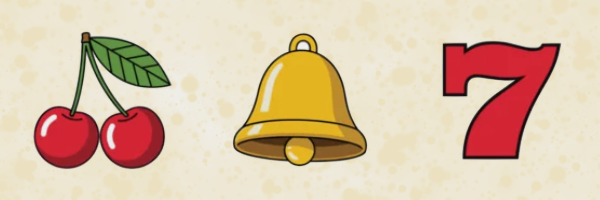
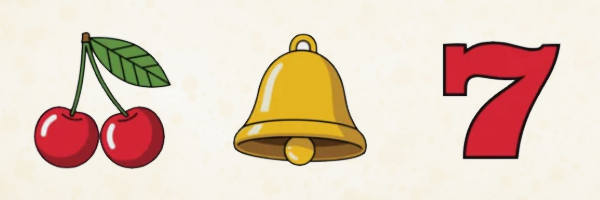
minor visual fixes

diff --git a/src/build-info.generated.ts b/src/build-info.generated.ts
@@ -13,11 +13,11 @@ export type BuildInfo = {
 };
 
 export const BUILD_INFO: BuildInfo = {
-	"version": "1.1.0",
-	"gitSha": "a9d7294",
+	"version": "1.2.0",
+	"gitSha": "bafc7d9",
 	"gitDirty": true,
-	"mode": "development",
-	"channel": "local",
-	"buildId": "20260710-103925",
-	"builtAt": "2026-07-10T10:39:25.260Z"
+	"mode": "production",
+	"channel": "itch",
+	"buildId": "20260710-160339",
+	"builtAt": "2026-07-10T16:03:39.322Z"
 };

diff --git a/src/components/reel.ts b/src/components/reel.ts
@@ -115,7 +115,7 @@ export class Reel extends Container {
 				break;
 
 			case ReelState.STOPPING:
-				this.stopFramesCount++;
+				this.stopFramesCount += deltaTime;
 				this.wayToStop -= this.currentSpeed * deltaTime;
 
 				if (this.currentSpeed > this.minSpeed) {
@@ -129,7 +129,7 @@ export class Reel extends Container {
 					const idealSpeed = this.wayToStop / framesLeft;
 					const targetSpeed = Math.max(this.minSpeed, idealSpeed);
 					const stopSmoothing = 0.15;
-					this.currentSpeed += (targetSpeed - this.currentSpeed) * stopSmoothing;
+					this.currentSpeed += Math.min(0, (targetSpeed - this.currentSpeed) * stopSmoothing);
 
 				} else {
 					this.currentSpeed = this.minSpeed;